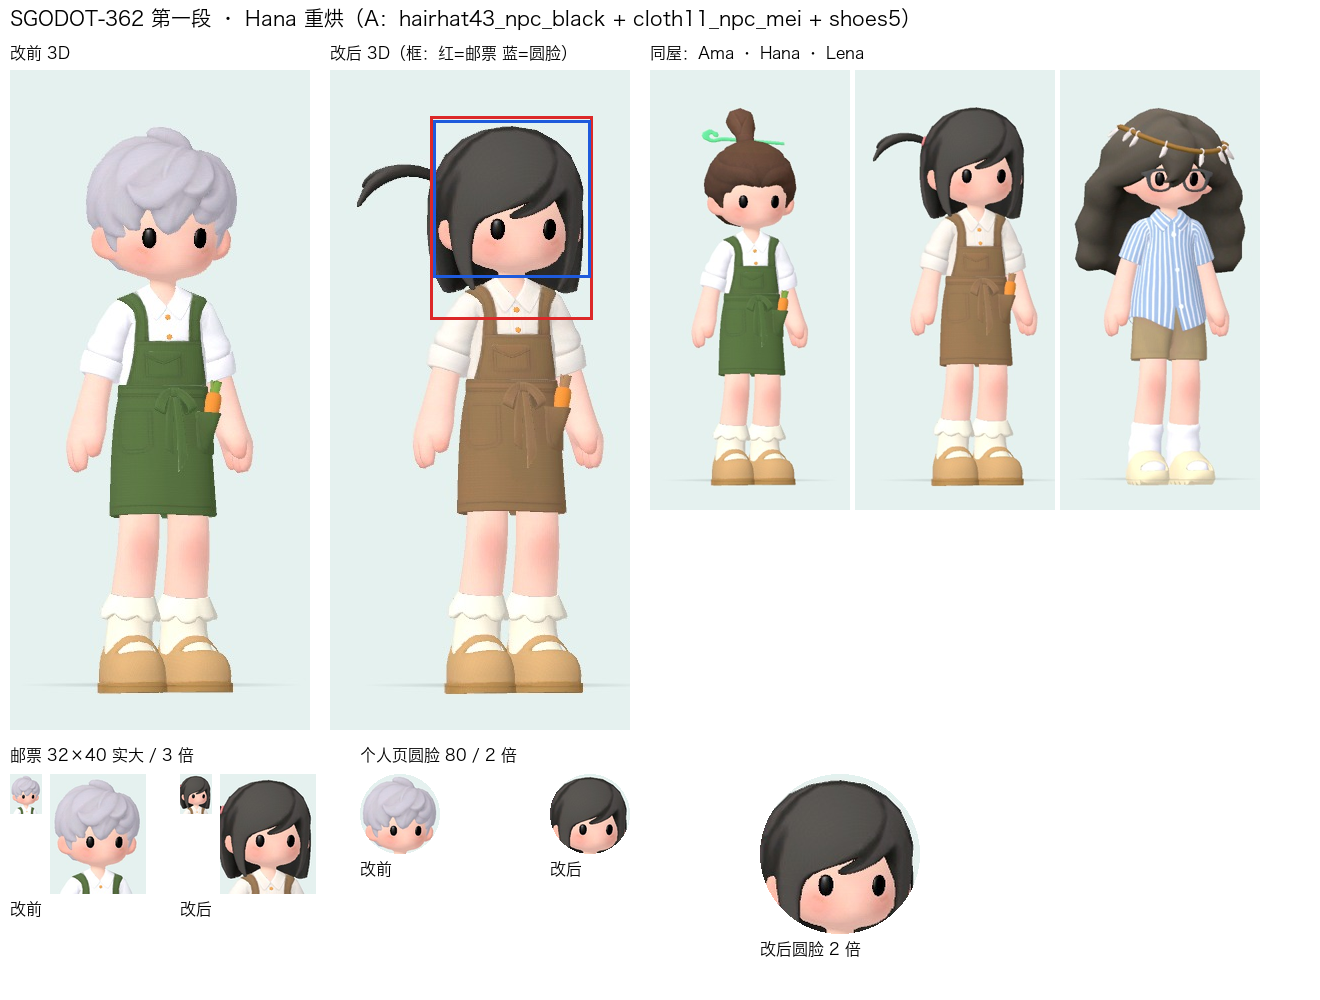
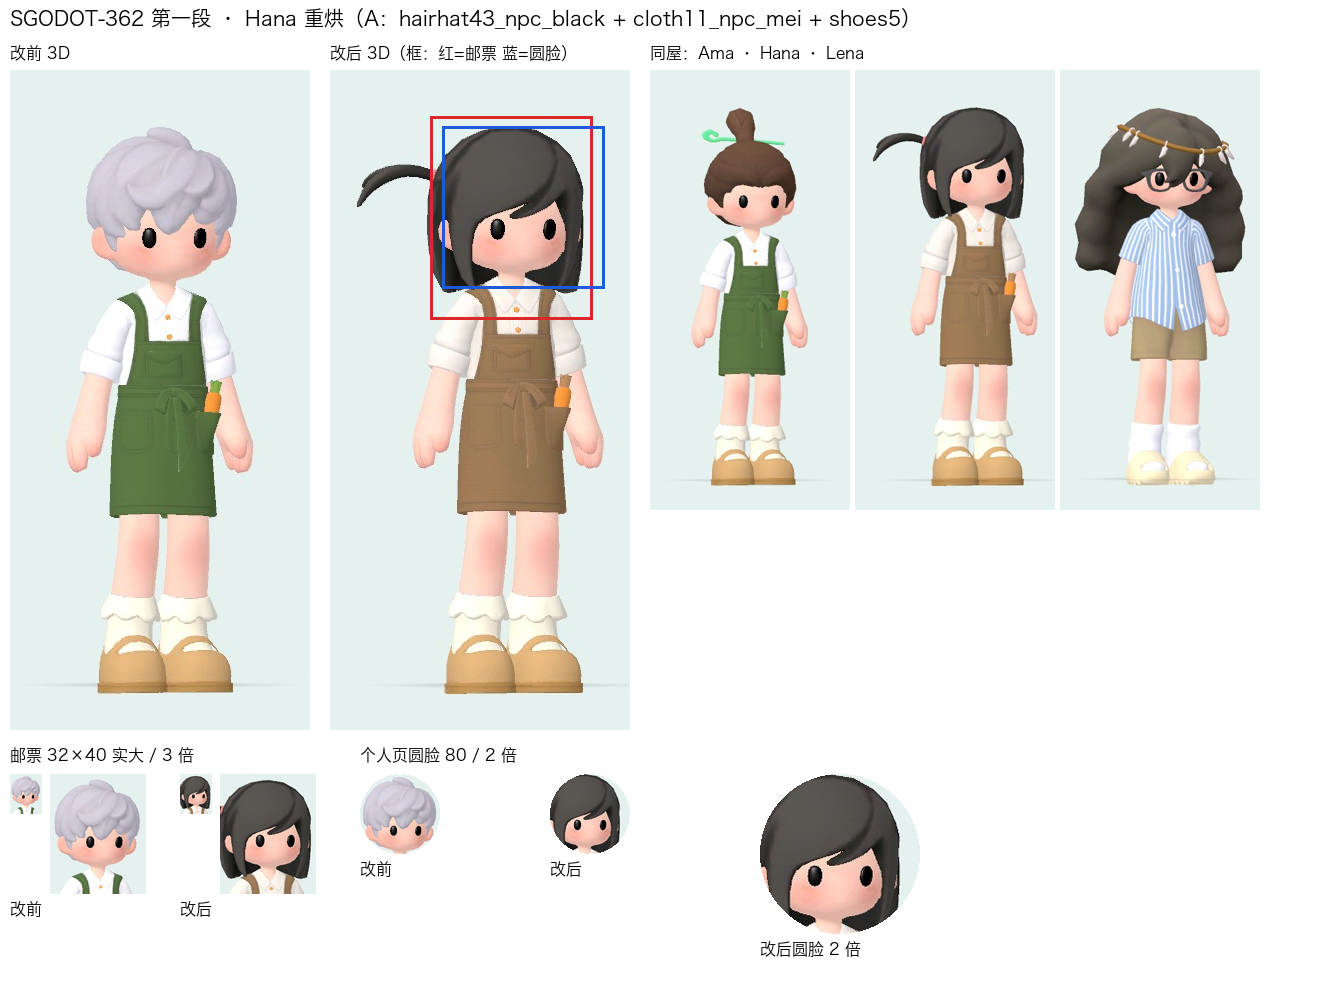
art(362): recentre Hana's profile face crop on her eyes (不知火舞 362 77a4c2b7)

diff --git a/docs/design/resident-clash-362-2026-10-29/README.md b/docs/design/resident-clash-362-2026-10-29/README.md
@@ -26,7 +26,7 @@ the UI director (362 27ea8b86):
 
 - `assets/p0/art/residents/hana_card.jpg`, rebaked with look A on the shared portrait stage
   (`tools/art/bake_resident_portraits.gd`, farm-dev 26416a20; avatar parts unchanged since).
-- `portrait_crops.json` `hana`: stamp [100,46,162,203], face [103,50,157,157]. The side tuft
+- `portrait_crops.json` `hana`: stamp [100,46,162,203], face [112,56,162,162] (eyes centred, chin inside the circle; options in `hana-face-crop-options.png`, 不知火舞 362 77a4c2b7). The side tuft
   of the 43 style falls outside the stamp and face, as on Theo's card.
 - `hana-rebake-check.png`: before / after, Ama · Hana · Lena of the tea house, stamp at
   32×40 and ×3, profile face at 80.
